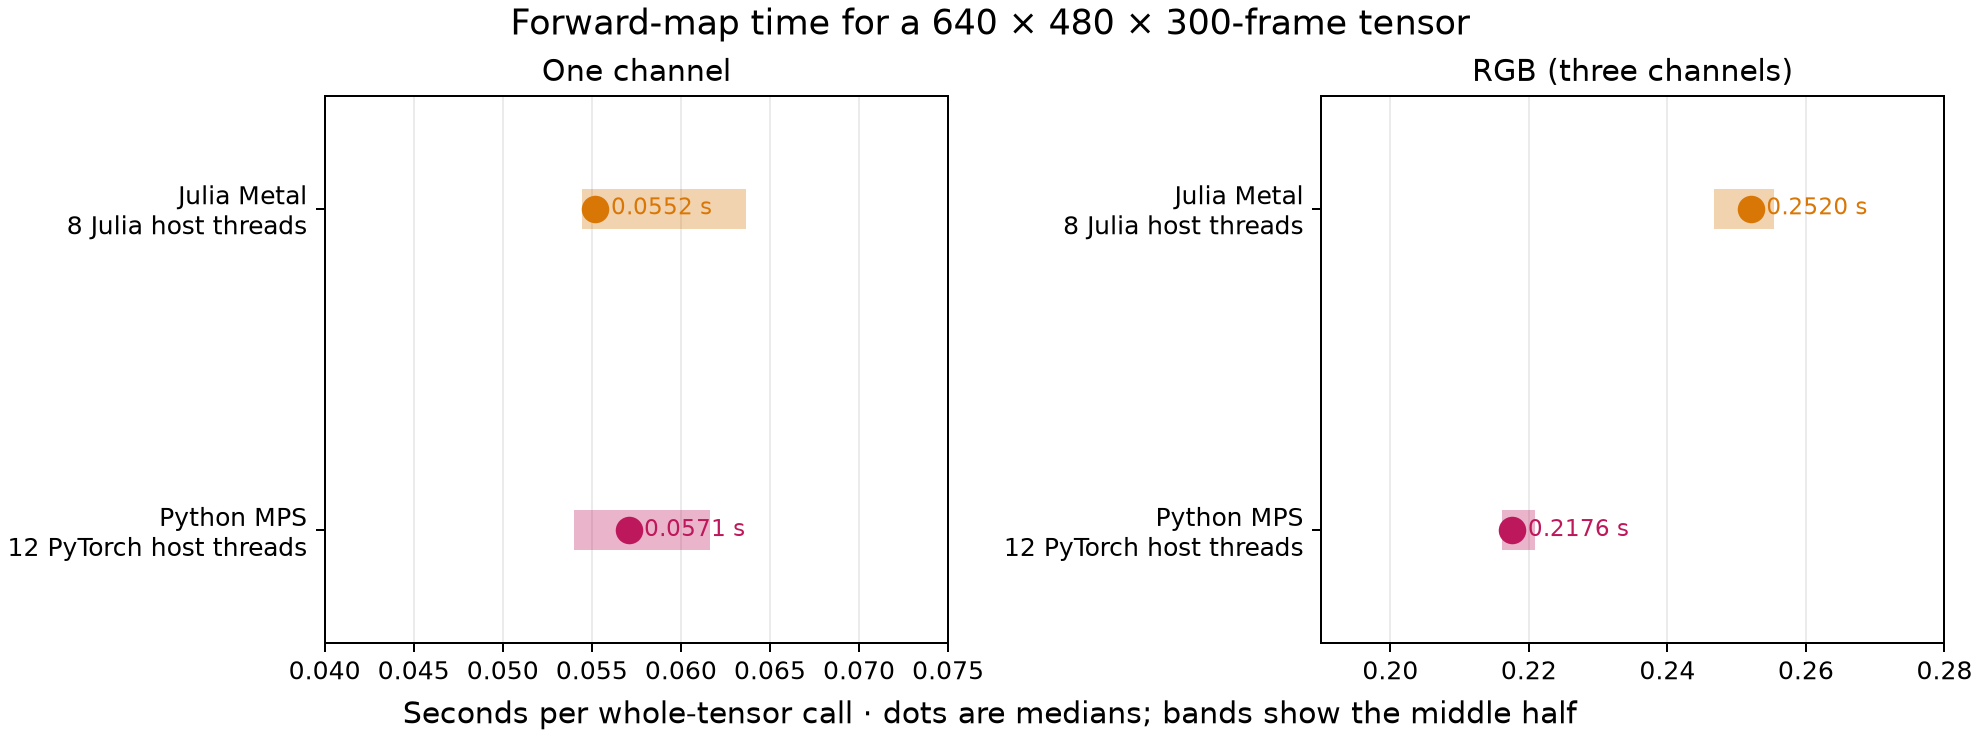
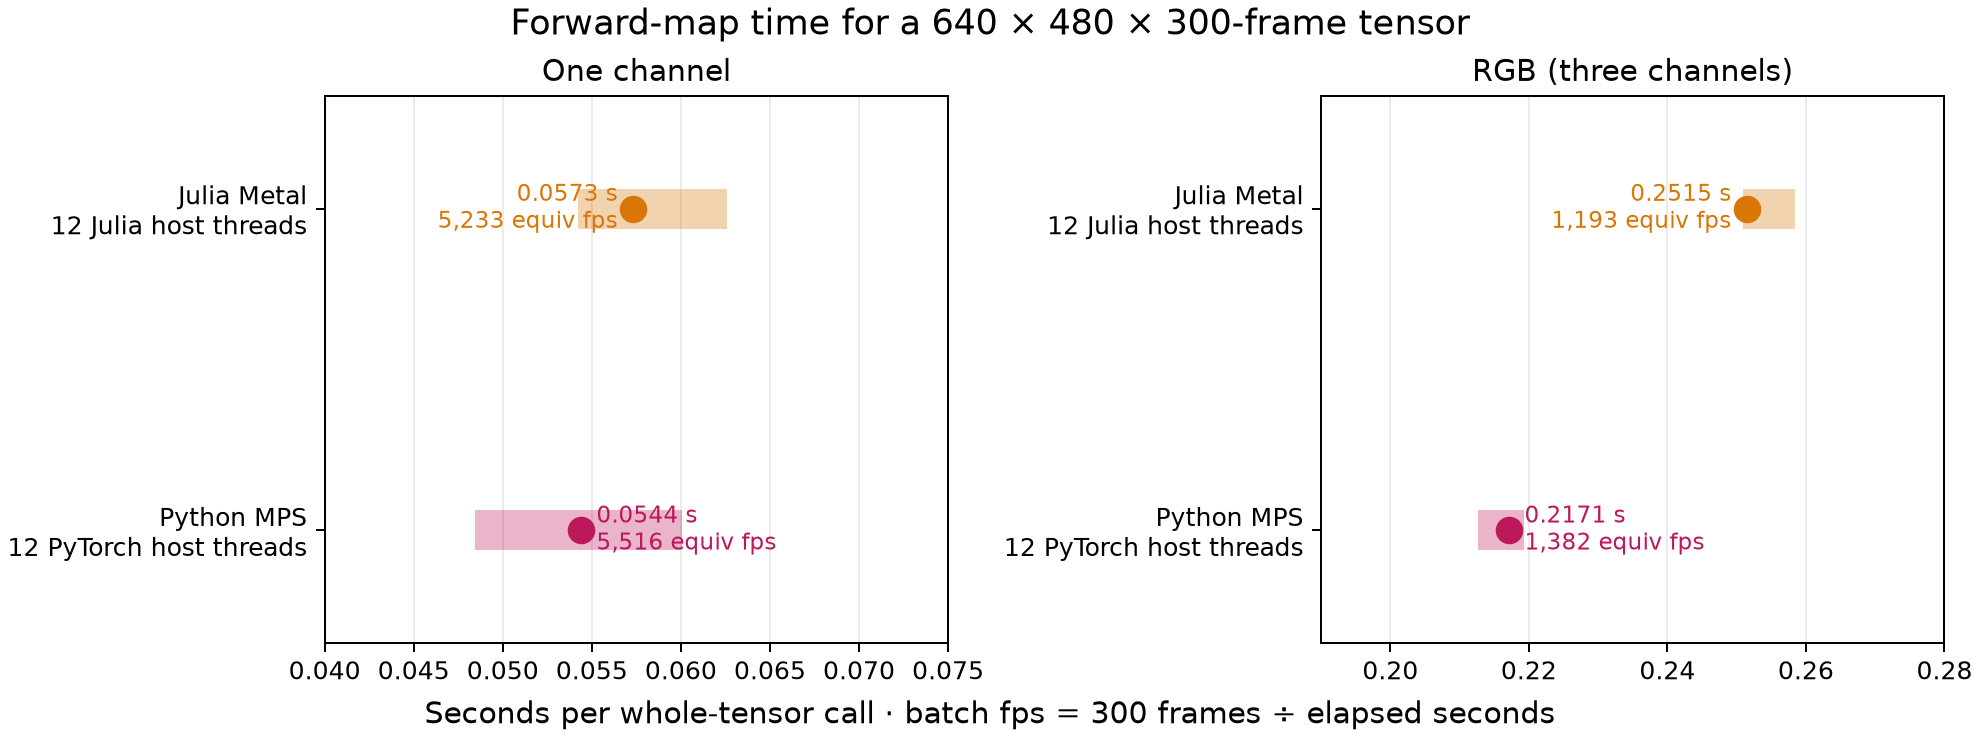
Match video GPU host threads and report batch fps

diff --git a/bench/python_vs_julia/plot_video.py b/bench/python_vs_julia/plot_video.py
@@ -1,4 +1,4 @@
-"""Plot one-channel and RGB video-tensor timing from 5x11 benchmark logs."""
+"""Plot one-channel and RGB video-tensor timing from equal-thread logs."""
 from __future__ import annotations
 
 import csv
@@ -13,19 +13,27 @@ import matplotlib.pyplot as plt
 import numpy as np
 
 
-def samples(folder: Path) -> tuple[np.ndarray, np.ndarray]:
-    julia_log = (folder / "julia-metal-5x11.log").read_text()
+def samples(folder: Path) -> tuple[np.ndarray, np.ndarray, int, int]:
+    julia_log = (folder / "julia-metal-12t-5x11.log").read_text()
     julia_line = next(line for line in julia_log.splitlines() if line.startswith("RESULT "))
     match = re.search(r"seconds=\[([^\]]+)\]", julia_line)
     if match is None:
         raise ValueError(f"Julia timing samples missing in {folder}")
     julia = np.array([float(value) for value in match.group(1).split(",")])
-    python_log = (folder / "python-mps-5x11.log").read_text()
+    python_log = (folder / "python-mps-12t-5x11.log").read_text()
     python_line = next(line for line in python_log.splitlines() if line.startswith("RESULT "))
-    python = np.array(json.loads(python_line.removeprefix("RESULT "))["seconds"])
+    python_result = json.loads(python_line.removeprefix("RESULT "))
+    python = np.array(python_result["seconds"])
     if len(julia) != 11 or len(python) != 11:
         raise ValueError(f"Expected 11 timed calls per backend in {folder}")
-    return julia, python
+    thread_match = re.search(r"julia_threads=(\d+)", julia_line)
+    if thread_match is None:
+        raise ValueError(f"Julia thread count missing in {folder}")
+    julia_threads = int(thread_match.group(1))
+    python_threads = int(python_result["torch_threads"])
+    if julia_threads != python_threads:
+        raise ValueError(f"Host thread counts differ in {folder}: {julia_threads} vs {python_threads}")
+    return julia, python, julia_threads, python_threads
 
 
 def main(mono_folder: Path, rgb_folder: Path) -> None:
@@ -34,33 +42,36 @@ def main(mono_folder: Path, rgb_folder: Path) -> None:
     output = Path(__file__).parent
     with (output / "video-results-2026-11-18.csv").open("w", newline="") as file:
         writer = csv.writer(file, lineterminator="\n")
-        writer.writerow(["case", "backend", "trial", "seconds"])
-        for case, julia, python in cases:
+        writer.writerow(["case", "backend", "trial", "seconds", "calls_per_second", "clip_equivalent_fps"])
+        for case, julia, python, _, _ in cases:
             for backend, times in (("Julia Metal", julia), ("Python MPS", python)):
-                writer.writerows((case, backend, i, value)
+                writer.writerows((case, backend, i, value, 1/value, 300/value)
                                  for i, value in enumerate(times, start=1))
 
     fig, axes = plt.subplots(1, 2, figsize=(11, 4.1), layout="constrained")
-    for ax, (case, julia, python), limits in zip(axes, cases,
+    for ax, (case, julia, python, julia_threads, python_threads), limits in zip(axes, cases,
                                                  ((0.04, 0.075), (0.19, 0.28))):
         for y, (times, color) in enumerate(((julia, "#d97706"), (python, "#be185d"))):
             q1, median, q3 = np.quantile(times, [0.25, 0.5, 0.75])
             ax.hlines(y, q1, q3, linewidth=16, color=color, alpha=0.32)
             ax.plot(median, y, "o", color=color, markersize=10)
-            ax.text(median + (limits[1]-limits[0])*0.025, y,
-                    f"{median:.4f} s", color=color, fontsize=9, va="center")
+            offset = (limits[1] - limits[0]) * 0.025
+            ax.text(median + (offset if y else -offset), y,
+                    f"{median:.4f} s\n{300/median:,.0f} equiv fps", color=color,
+                    fontsize=9, va="center", ha="left" if y else "right")
         ax.set_xlim(*limits)
         ax.set_ylim(1.35, -0.35)
-        ax.set_yticks([0, 1], ["Julia Metal\n8 Julia host threads",
-                                "Python MPS\n12 PyTorch host threads"])
+        ax.set_yticks([0, 1], [f"Julia Metal\n{julia_threads} Julia host threads",
+                                f"Python MPS\n{python_threads} PyTorch host threads"])
         ax.set_title(case)
         ax.grid(axis="x", alpha=0.25)
     fig.suptitle("Forward-map time for a 640 × 480 × 300-frame tensor", fontsize=14)
-    fig.supxlabel("Seconds per whole-tensor call · dots are medians; bands show the middle half")
+    fig.supxlabel("Seconds per whole-tensor call · batch fps = 300 frames ÷ elapsed seconds")
     fig.savefig(output / "video-2026-11-18.png", dpi=180)
     plt.close(fig)
-    for case, julia, python in cases:
-        print(f"{case}: Julia {np.median(julia):.6f} s; Python {np.median(python):.6f} s")
+    for case, julia, python, _, _ in cases:
+        print(f"{case}: Julia {np.median(julia):.6f} s ({300/np.median(julia):.0f} fps); "
+              f"Python {np.median(python):.6f} s ({300/np.median(python):.0f} fps)")
 
 
 if __name__ == "__main__":

diff --git a/bench/python_vs_julia/video_python.py b/bench/python_vs_julia/video_python.py
@@ -16,8 +16,10 @@ p.add_argument('--shape', nargs='+', type=int, default=(640, 480, 3, 300))
 p.add_argument('--backend', choices=('cpu', 'mps'), required=True)
 p.add_argument('--warmups', type=int, default=3)
 p.add_argument('--repeats', type=int, default=5)
+p.add_argument('--host-threads', type=int, default=None,
+               help='Set PyTorch intra-op host threads before MPS work')
 a = p.parse_args()
-if len(a.shape) not in (3, 4) or min(a.shape) < 1 or a.warmups < 0 or a.repeats < 1:
+if len(a.shape) not in (3, 4) or min(a.shape) < 1 or a.warmups < 0 or a.repeats < 1 or (a.host_threads is not None and a.host_threads < 1):
     p.error('shape must contain three or four positive dimensions; repeats must be positive')
 tensor = np.fromfile(a.folder / 'tensor.f32', dtype='<f4')
 x = np.fromfile(a.folder / 'x.f32', dtype='<f4')
@@ -34,6 +36,8 @@ if a.backend == 'cpu':
     torch_version = torch_threads = None
 else:
     import torch
+    if a.host_threads is not None:
+        torch.set_num_threads(a.host_threads)
     if not torch.backends.mps.is_available():
         raise RuntimeError('MPS is unavailable')
     tensor = torch.as_tensor(tensor.copy(), device='mps')
@@ -64,7 +68,7 @@ for i in range(1, a.repeats + 1):
     print(f'SAMPLE {i} seconds={elapsed}', flush=True)
 print('RESULT ' + json.dumps(dict(backend=a.backend, shape=a.shape, coordinate_length=x.size,
     output_shape=[1, *a.shape], warmups=a.warmups, repeats=a.repeats,
-    seconds=samples, median_seconds=float(np.median(samples)), sample=sample, output_norm=norm, clip_seconds=10, fps=30, realtime_factor=10/float(np.median(samples)),
+    seconds=samples, median_seconds=float(np.median(samples)), sample=sample, output_norm=norm, clip_seconds=10, fps=30, clip_equivalent_fps=300/float(np.median(samples)), realtime_factor=10/float(np.median(samples)),
     platform=platform.platform(), numpy=np.__version__, numpy_blas='Accelerate' if 'accelerate' in config.getvalue().lower() else 'other',
     torch=torch_version, torch_threads=torch_threads,
     thread_environment={k: os.environ.get(k) for k in ('VECLIB_MAXIMUM_THREADS','OPENBLAS_NUM_THREADS','OMP_NUM_THREADS','MKL_NUM_THREADS')})), flush=True)

diff --git a/bench/python_vs_julia/VIDEO-2026-11-18.md b/bench/python_vs_julia/VIDEO-2026-11-18.md
@@ -15,32 +15,50 @@ call. Map construction and the initial tensor upload are excluded. Each process
 performs five warmup calls followed by 11 timed calls; the median is reported
 in **seconds**. GPU synchronization is included.
 
-As in the larger cubic sweep, CPU timing is omitted. Julia was configured with
-eight host threads; PyTorch reported twelve. Neither setting measures GPU
+As in the larger cubic sweep, CPU timing is omitted. **Both runs were
+configured with 12 host threads**: `JULIA_NUM_THREADS=12` and
+`torch.set_num_threads(12)`. These settings do not control or measure GPU
 device workers. The run used an Apple M4 Max with 64 GiB unified memory,
 macOS 27.2.1, Julia 1.12.3 with Metal.jl 1.11.1 in a temporary environment,
 and Python with PyTorch 2.15.0.
 
 ## Results
 
-![Two panels compare forward-map seconds for one-channel and RGB 640 × 480, 300-frame tensors. The one-channel medians are 0.0552 seconds for Julia Metal and 0.0571 seconds for Python MPS, with overlapping middle-half ranges. The RGB medians are 0.2520 seconds for Julia and 0.2176 seconds for Python. The panels use separate zoomed time axes; every call is in the linked CSV.](video-2026-11-18.png)
+![Two panels compare whole-tensor forward-map time and clip-equivalent frames per second on one-channel and RGB 640 × 480, 300-frame tensors. Both backends use 12 configured host threads. The one-channel medians are 0.0573 seconds or 5,233 fps for Julia Metal and 0.0544 seconds or 5,516 fps for Python MPS. The RGB medians are 0.2515 seconds or 1,193 fps for Julia and 0.2171 seconds or 1,382 fps for Python. The panels use separate zoomed time axes; every call is in the linked CSV.](video-2026-11-18.png)
 
-| Tensor | Julia Metal median | Python MPS median | Julia middle half | Python middle half |
+| Tensor | Julia Metal | Python MPS | Julia clip-equivalent fps | Python clip-equivalent fps |
 | --- | ---: | ---: | ---: | ---: |
-| One channel · `640 × 480 × 300` | 0.0552 s | 0.0571 s | 0.0544–0.0637 s | 0.0540–0.0616 s |
-| RGB · `640 × 480 × 3 × 300` | 0.2520 s | 0.2176 s | 0.2467–0.2554 s | 0.2161–0.2208 s |
+| One channel · `640 × 480 × 300` | 0.0573 s | 0.0544 s | 5,233 | 5,516 |
+| RGB · `640 × 480 × 3 × 300` | 0.2515 s | 0.2171 s | 1,193 | 1,382 |
 
-For one channel, the medians differ by 0.0019 seconds and the middle-half
-ranges overlap. This run does not establish a meaningful speed advantage for
-either implementation. On RGB, Python MPS measured about **1.16× faster** than
-Julia Metal for this host-facing forward call. A 10-second RGB tensor therefore
-took about 0.22–0.25 seconds per map application, roughly 40–46 times shorter
-than the clip's duration. That comparison is not a playback or codec benchmark.
+The fps column is `300 frames ÷ median seconds per whole-tensor call`. For one
+channel, the medians differ by 0.0029 seconds and their middle-half ranges
+overlap (Julia 0.0542–0.0626 s; Python 0.0485–0.0601 s). This run does not
+establish a meaningful speed advantage for either implementation. On RGB,
+Python MPS measured about **1.16× faster** for this host-facing forward call;
+the middle-half ranges were 0.2509–0.2584 s for Julia and 0.2127–0.2193 s
+for Python.
+
+**Streaming interpretation:** the fps values are *batch-equivalent throughput*:
+300 frames divided by one call on the entire 300-frame tensor. For a
+nonoverlapping 10-second chunk, one forward-map call takes roughly 0.22–0.25 s,
+so about 40–46 such calls fit within 10 seconds if the map and tensor are
+already resident. The first whole-window result still cannot arrive before
+the 10-second window closes; latency is at least about 10.22–10.25 seconds
+from the first frame, before ingestion and solve overhead.
+
+For an **overlapping 10-second window updated on every incoming frame**,
+recomputing the entire forward map would require 30 calls per second. The
+measured RGB rates are only about 4.0 Julia or 4.6 Python calls per second.
+That pattern would need an incremental algorithm or a shorter window. A full
+stratification solve may also require many map applications, plus map updates
+and uploads. Those costs were not timed. The current result does not establish
+that full live stratification keeps up with a 30 fps stream.
 
 The graph zooms both time axes to show the typical calls. One Julia
-one-channel call took 0.255 seconds; two Julia RGB calls took 0.369 and 0.659
-seconds. [All 44 timed calls](video-results-2026-11-18.csv), including these
-outliers, are retained. The median limits their influence.
+one-channel call took 0.199 seconds; two Julia RGB calls took 0.334 and 0.343
+seconds; one Python RGB call took 0.157 seconds. [All 44 timed calls](video-results-2026-11-18.csv),
+including these outliers, are retained. The median limits their influence.
 
 The two GPU implementations agreed on 16 sampled output elements to a relative
 norm difference below `1.4e-8` in each case. Their reported full-output norms
@@ -56,12 +74,12 @@ plotting Python environment needs NumPy and Matplotlib.
 
 ```sh
 python/.venv/bin/python bench/python_vs_julia/video_inputs.py /tmp/opendleto-video-mono --shape 640 480 300
-JULIA_NUM_THREADS=8 julia --compiled-modules=existing --project=/tmp/dleto-metal-bench bench/python_vs_julia/video_julia.jl /tmp/opendleto-video-mono metal 640 480 300 5 11 | tee /tmp/opendleto-video-mono/julia-metal-5x11.log
-python/.venv/bin/python -u bench/python_vs_julia/video_python.py /tmp/opendleto-video-mono --shape 640 480 300 --backend mps --warmups 5 --repeats 11 | tee /tmp/opendleto-video-mono/python-mps-5x11.log
+JULIA_NUM_THREADS=12 julia --compiled-modules=existing --project=/tmp/dleto-metal-bench bench/python_vs_julia/video_julia.jl /tmp/opendleto-video-mono metal 640 480 300 5 11 | tee /tmp/opendleto-video-mono/julia-metal-12t-5x11.log
+python/.venv/bin/python -u bench/python_vs_julia/video_python.py /tmp/opendleto-video-mono --shape 640 480 300 --backend mps --host-threads 12 --warmups 5 --repeats 11 | tee /tmp/opendleto-video-mono/python-mps-12t-5x11.log
 
 python/.venv/bin/python bench/python_vs_julia/video_inputs.py /tmp/opendleto-video-rgb --shape 640 480 3 300
-JULIA_NUM_THREADS=8 julia --compiled-modules=existing --project=/tmp/dleto-metal-bench bench/python_vs_julia/video_julia.jl /tmp/opendleto-video-rgb metal 640 480 3 300 5 11 | tee /tmp/opendleto-video-rgb/julia-metal-5x11.log
-python/.venv/bin/python -u bench/python_vs_julia/video_python.py /tmp/opendleto-video-rgb --shape 640 480 3 300 --backend mps --warmups 5 --repeats 11 | tee /tmp/opendleto-video-rgb/python-mps-5x11.log
+JULIA_NUM_THREADS=12 julia --compiled-modules=existing --project=/tmp/dleto-metal-bench bench/python_vs_julia/video_julia.jl /tmp/opendleto-video-rgb metal 640 480 3 300 5 11 | tee /tmp/opendleto-video-rgb/julia-metal-12t-5x11.log
+python/.venv/bin/python -u bench/python_vs_julia/video_python.py /tmp/opendleto-video-rgb --shape 640 480 3 300 --backend mps --host-threads 12 --warmups 5 --repeats 11 | tee /tmp/opendleto-video-rgb/python-mps-12t-5x11.log
 
 MPLCONFIGDIR=/tmp/opendleto-mpl python3 bench/python_vs_julia/plot_video.py /tmp/opendleto-video-mono /tmp/opendleto-video-rgb
 ```

diff --git a/bench/python_vs_julia/APPLE-ACCELERATE-2026-11-18.md b/bench/python_vs_julia/APPLE-ACCELERATE-2026-11-18.md
@@ -21,6 +21,8 @@ Python's PyTorch reported twelve, and no thread-limit environment variables
 were set. The graph labels these host thread settings. The number of workers
 actually used by Accelerate and the GPU devices was not measured; device
 parallelism is distinct from host thread counts.
+The later [video-sized comparison](VIDEO-2026-11-18.md) reruns both GPU paths
+with 12 configured host threads and reports clip-equivalent frames per second.
 
 The Julia GPU run used Metal.jl 1.11.1 in a temporary environment. The pinned
 Metal.jl 1.9.3 in this checkout failed to compile its permutation kernel on
